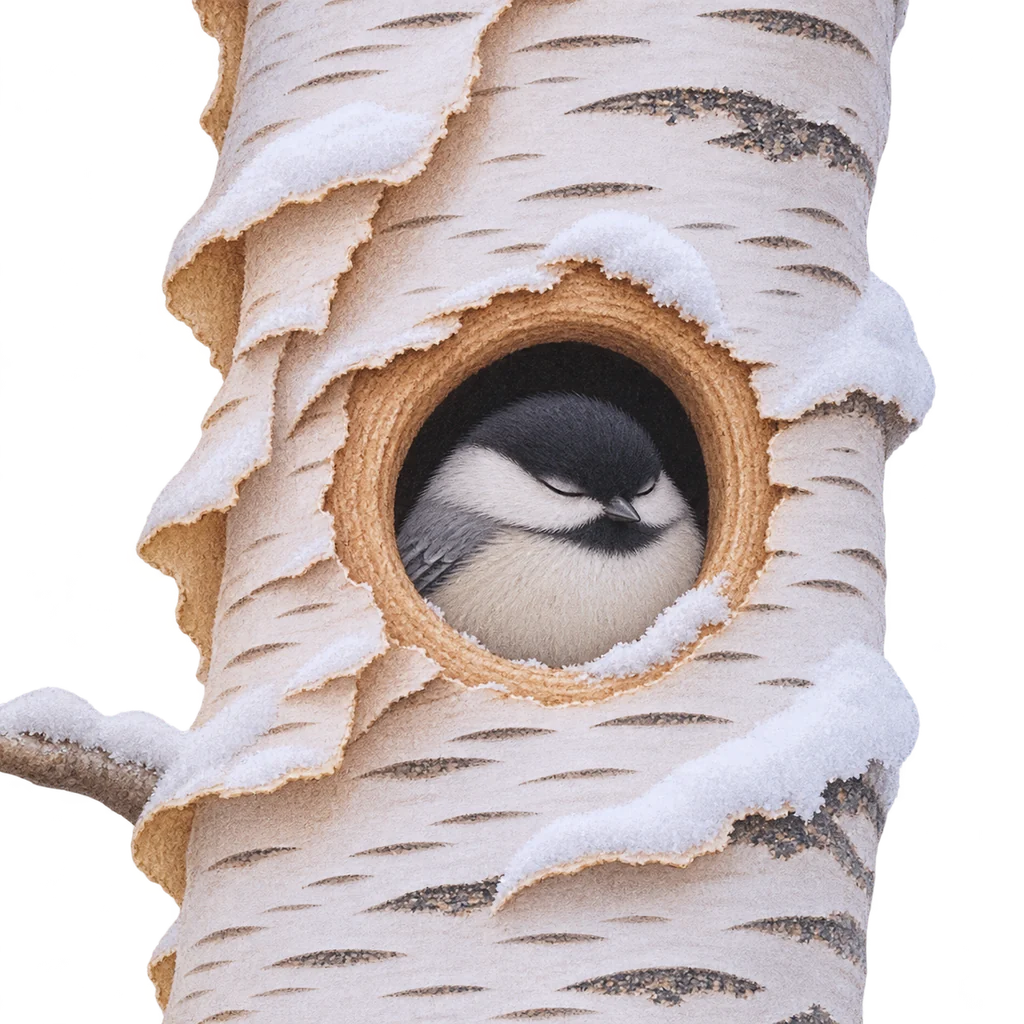
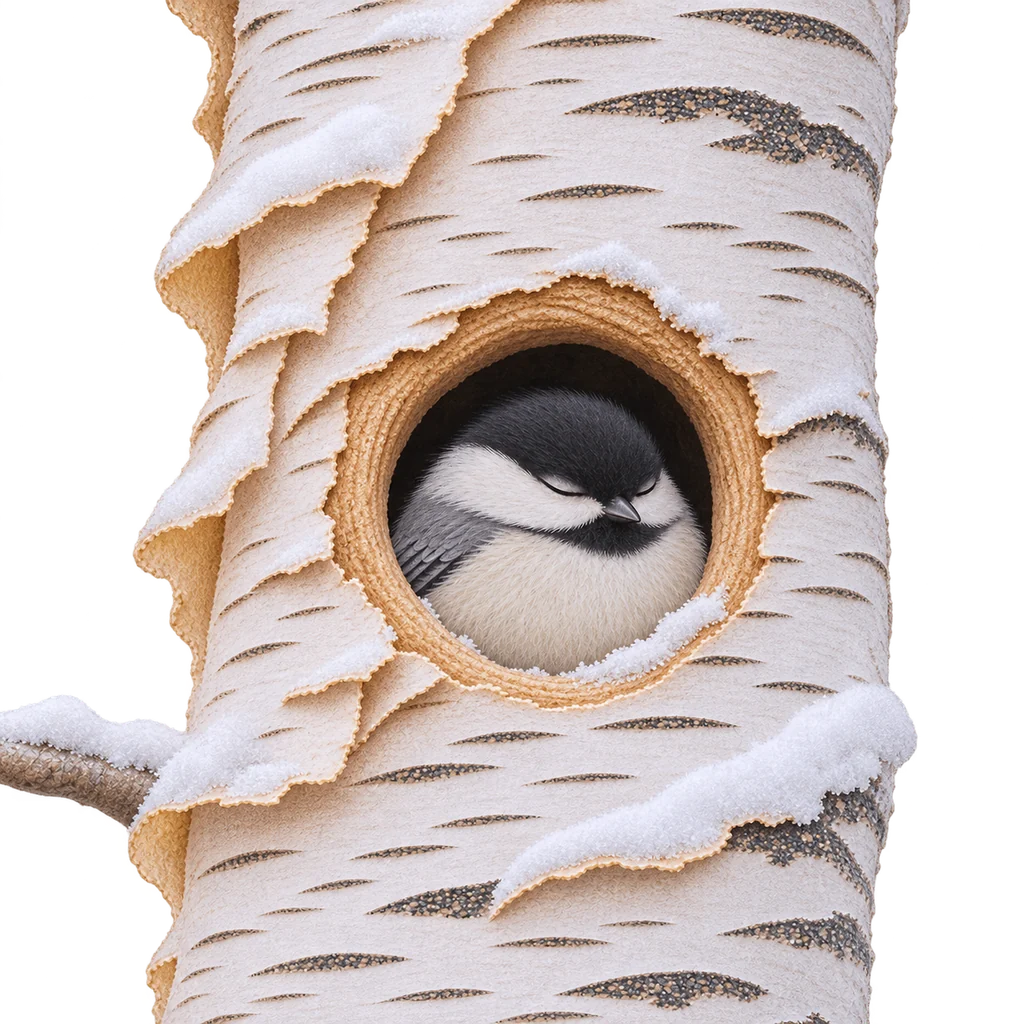
見本（マージしない）：コールドムーン 8P — A-11 を2枚目の案に差し替え（穴の口の目印 675,616、半径 203）
Claude-Session: https://claude.ai/code/session_01RjnFdougtt3G8DceQLuFWS

Changed region(s): [[0.0, 0.0, 0.9375, 1.0], [0.5312, 0.375, 0.5625, 0.4062]]

diff --git a/src/design/story/ColdWorld.tsx b/src/design/story/ColdWorld.tsx
@@ -452,15 +452,15 @@ export function ColdWorld(): ReactElement {
           </g>
         </g>
         {/* 試作（?coldSleep=1）：8P の寄りで、穴の口と中で眠るコガラの絵（A-11、11/26 届いた）に溶けるように入れ替える。
-            A-11 の穴の口（画素で中心 674,619、横の半径 194）を、幹の穴（HOLE）に合わせて置く。 */}
+            A-11 の穴の口（画素で中心 675,616、横の半径 203。2枚目の案、11/26 採用）を、幹の穴（HOLE）に合わせて置く。 */}
         {COLD_OPT.sleep && (
           <image
             className="cw-hole-sleep"
             href={A("hole-sleep")}
-            x={HOLE.x - 674 * (HOLE.rx / 194)}
-            y={HOLE.y - 619 * (HOLE.rx / 194)}
-            width={1254 * (HOLE.rx / 194)}
-            height={1254 * (HOLE.rx / 194)}
+            x={HOLE.x - 675 * (HOLE.rx / 203)}
+            y={HOLE.y - 616 * (HOLE.rx / 203)}
+            width={1254 * (HOLE.rx / 203)}
+            height={1254 * (HOLE.rx / 203)}
             opacity={0}
           />
         )}
